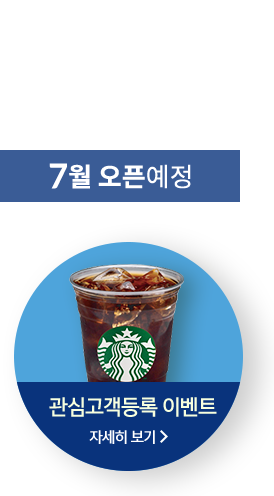
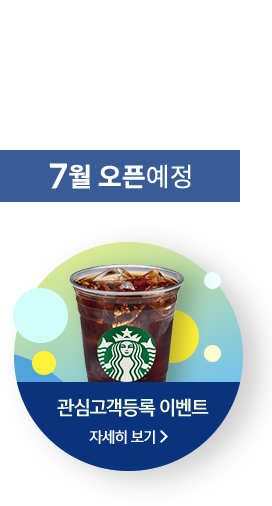
update

Changed region(s): [[0.0294, 0.4536, 0.9118, 0.9677], [0.0, 0.2722, 0.8824, 0.4234]]

diff --git a/thesharp/resources/js/main.js b/thesharp/resources/js/main.js
@@ -21,12 +21,12 @@ APP.register = function(ns_name){
 (function(ns, $,undefined){    
     ns.register('main');        
     ns.main = function(){
-         var leady = true, tNum = 0, totalNum = 3, menuCon, menuBg, tl, contents, overTimer;
+         var leady = true, tNum = 0, totalNum = 4, menuCon, menuBg, tl, contents, overTimer;
         var  visualWrap, visualCon, visualImg, visualTopWrap, visualBottomWrap, visualTopCon, visualBottomCon, imgWid = 1920, imgHei = 1080, controllBt, reSetTimer, slideimg;
         var _init = function(){
             var index0;
             loadImg();           
-            totalNum = 3;
+            totalNum = 4;
             menuCon = $('.menu_con .menu').find('li>a');
             menuCon.on('mouseenter focusin mouseleave focusout click', menuHandler);
             menuBg = $('.menu_con .menu_bg ul').find('li');
@@ -102,7 +102,7 @@ APP.register = function(ns_name){
             changeMenuBg(num);
         };
         var changeMenuBg = function(num){
-            for(var i=0; i < 3; i++){
+            for(var i=0; i < 4; i++){
                 if(num == i){
                    
                    TweenMax.to($(menuBg[num]), 0.3, {opacity:1, ease:Cubic.easeOut});
@@ -114,7 +114,7 @@ APP.register = function(ns_name){
             };
         };
         var menuOver = function(num){
-            for(var i=0; i < 3; i++){
+            for(var i=0; i < 4; i++){
                 if(num == i){
                     $(menuCon[num]).addClass('on')
                 }else{

diff --git a/thesharp/index_b.html b/thesharp/index_b.html
@@ -24,17 +24,17 @@
 	<div id="wrap">
 		<div class="main_container">
 			<span class="logo"><img src="resources/img/logo_b.png" alt=""></span>
-			<span class="gnb"><img src="resources/img/gnb_b.png" alt=""></span>
+			<!-- <span class="gnb"><img src="resources/img/gnb_b.png" alt=""></span> -->
 			<span class="brand"><img src="resources/img/brand_b.png" alt=""></span>
 			<span class="register"><img src="resources/img/left_b.png" alt=""></span>
 			<span class="con_logo"><img src="resources/img/b_con_logo.png" alt=""></span>
 			<div class="main_visual" id="scrollbar">				
 				<div class="imgcon m_obj_1">
-					<img src="resources/img/b_content_21.png" alt="">
+					<img src="resources/img/con_b.jpg" alt="">
 				</div>
-				<div class="imgcon m_obj_2">
+				<!-- <div class="imgcon m_obj_2">
 					<img src="resources/img/b_content_22.png" alt="">
-				</div>
+				</div> -->
 				<div class="footer m_obj_3">
 					<img src="resources/img/footer.png" alt="">
 				</div>

diff --git a/thesharp/index.html b/thesharp/index.html
@@ -82,6 +82,21 @@
 			</div>
 			<div class="visual_img" style="background: url(resources/img/visual_img03.jpg) no-repeat center 0; background-size: cover;"></div>			
 		</div>
+
+		<div class="section sub_sec index3">
+			<div class="visual_con">
+				<div class="visual_cell">
+					<div class="visual_ele">						
+						<p class="txt_1 fw500">Makes better world</p>
+						<p class="txt_2 fw500">당신의 삶과 꿈이<br />하나되는 그 곳에</p>
+						<div class="btngo">
+							<span><a href="#">바로가기</a></span>
+						</div>
+					</div>
+				</div>
+			</div>
+			<div class="visual_img" style="background: url(resources/img/visual_img04.jpg) no-repeat center 0; background-size: cover;"></div>			
+		</div>
 	</div>	
 	
 	<!-- <div class="aside">

diff --git a/thesharp/resources/css/common.css b/thesharp/resources/css/common.css
@@ -202,13 +202,12 @@ body {background: #13122c;}
   min-height: 100%;  
 }
 .main_container .main_visual .imgcon {
-    padding-left: 80px;
-    text-align: left;
-    margin-top: 150px;
+    padding-left: 0;
+    text-align: left;   
     background: #fff;
 }
 .main_container .main_visual .imgcon img {}
-.main_container .footer { background: #f3f4f7; padding:50px 80px; margin-top: 100px;}
+.main_container .footer { background: #f3f4f7; padding:50px 80px; margin-top: 20px; text-align: left;}
 
 
 /*.vimeo-wrapper {
